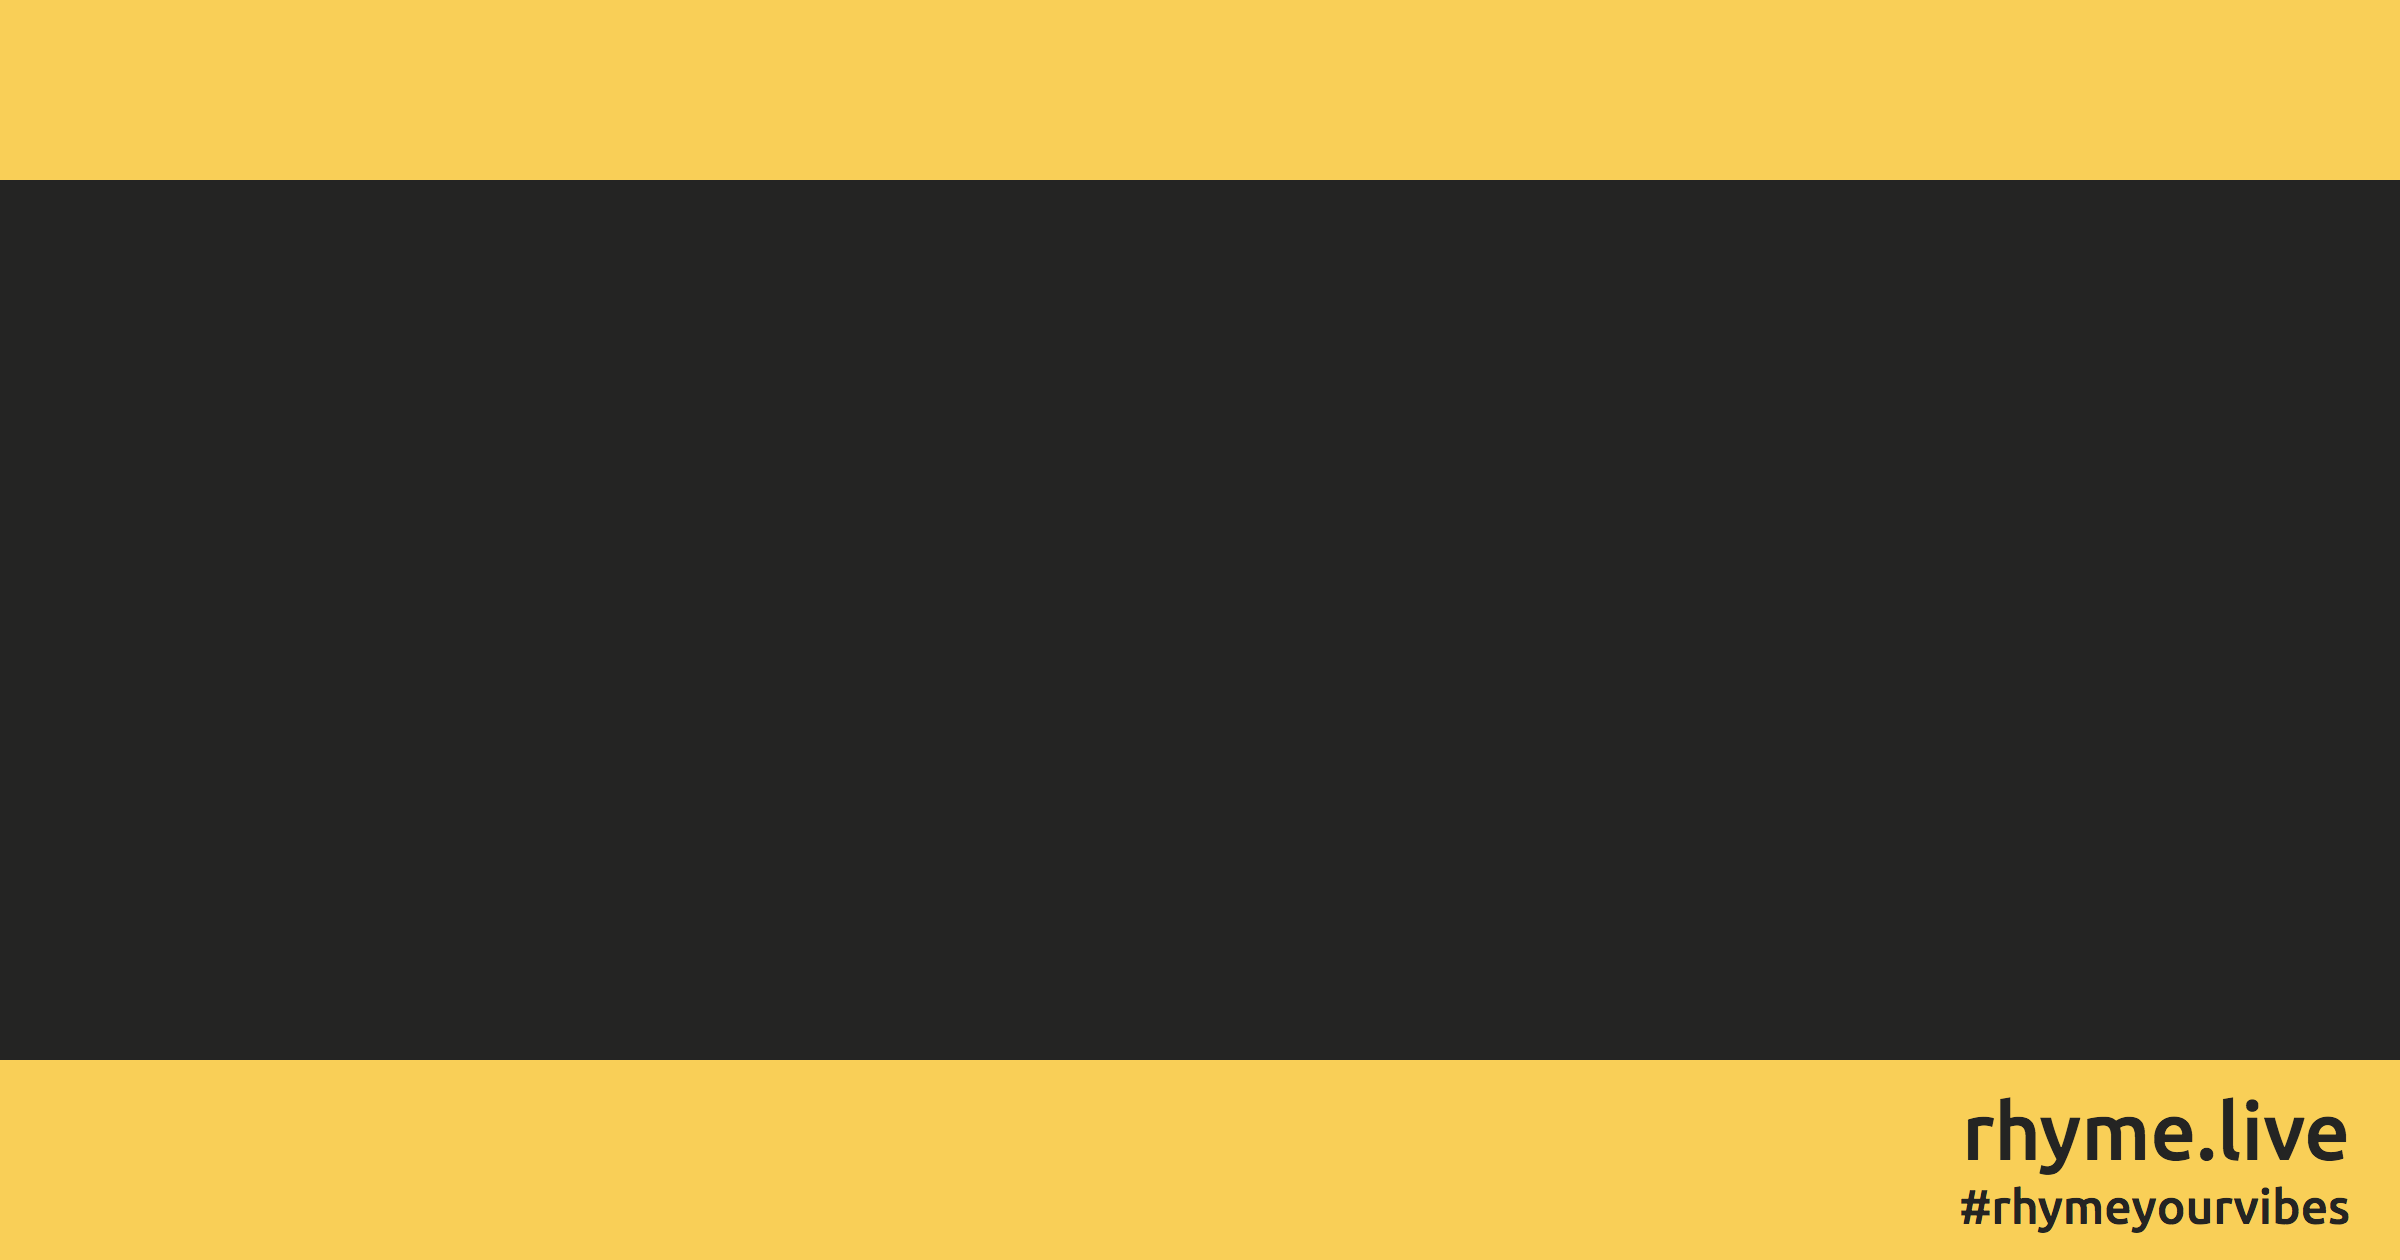
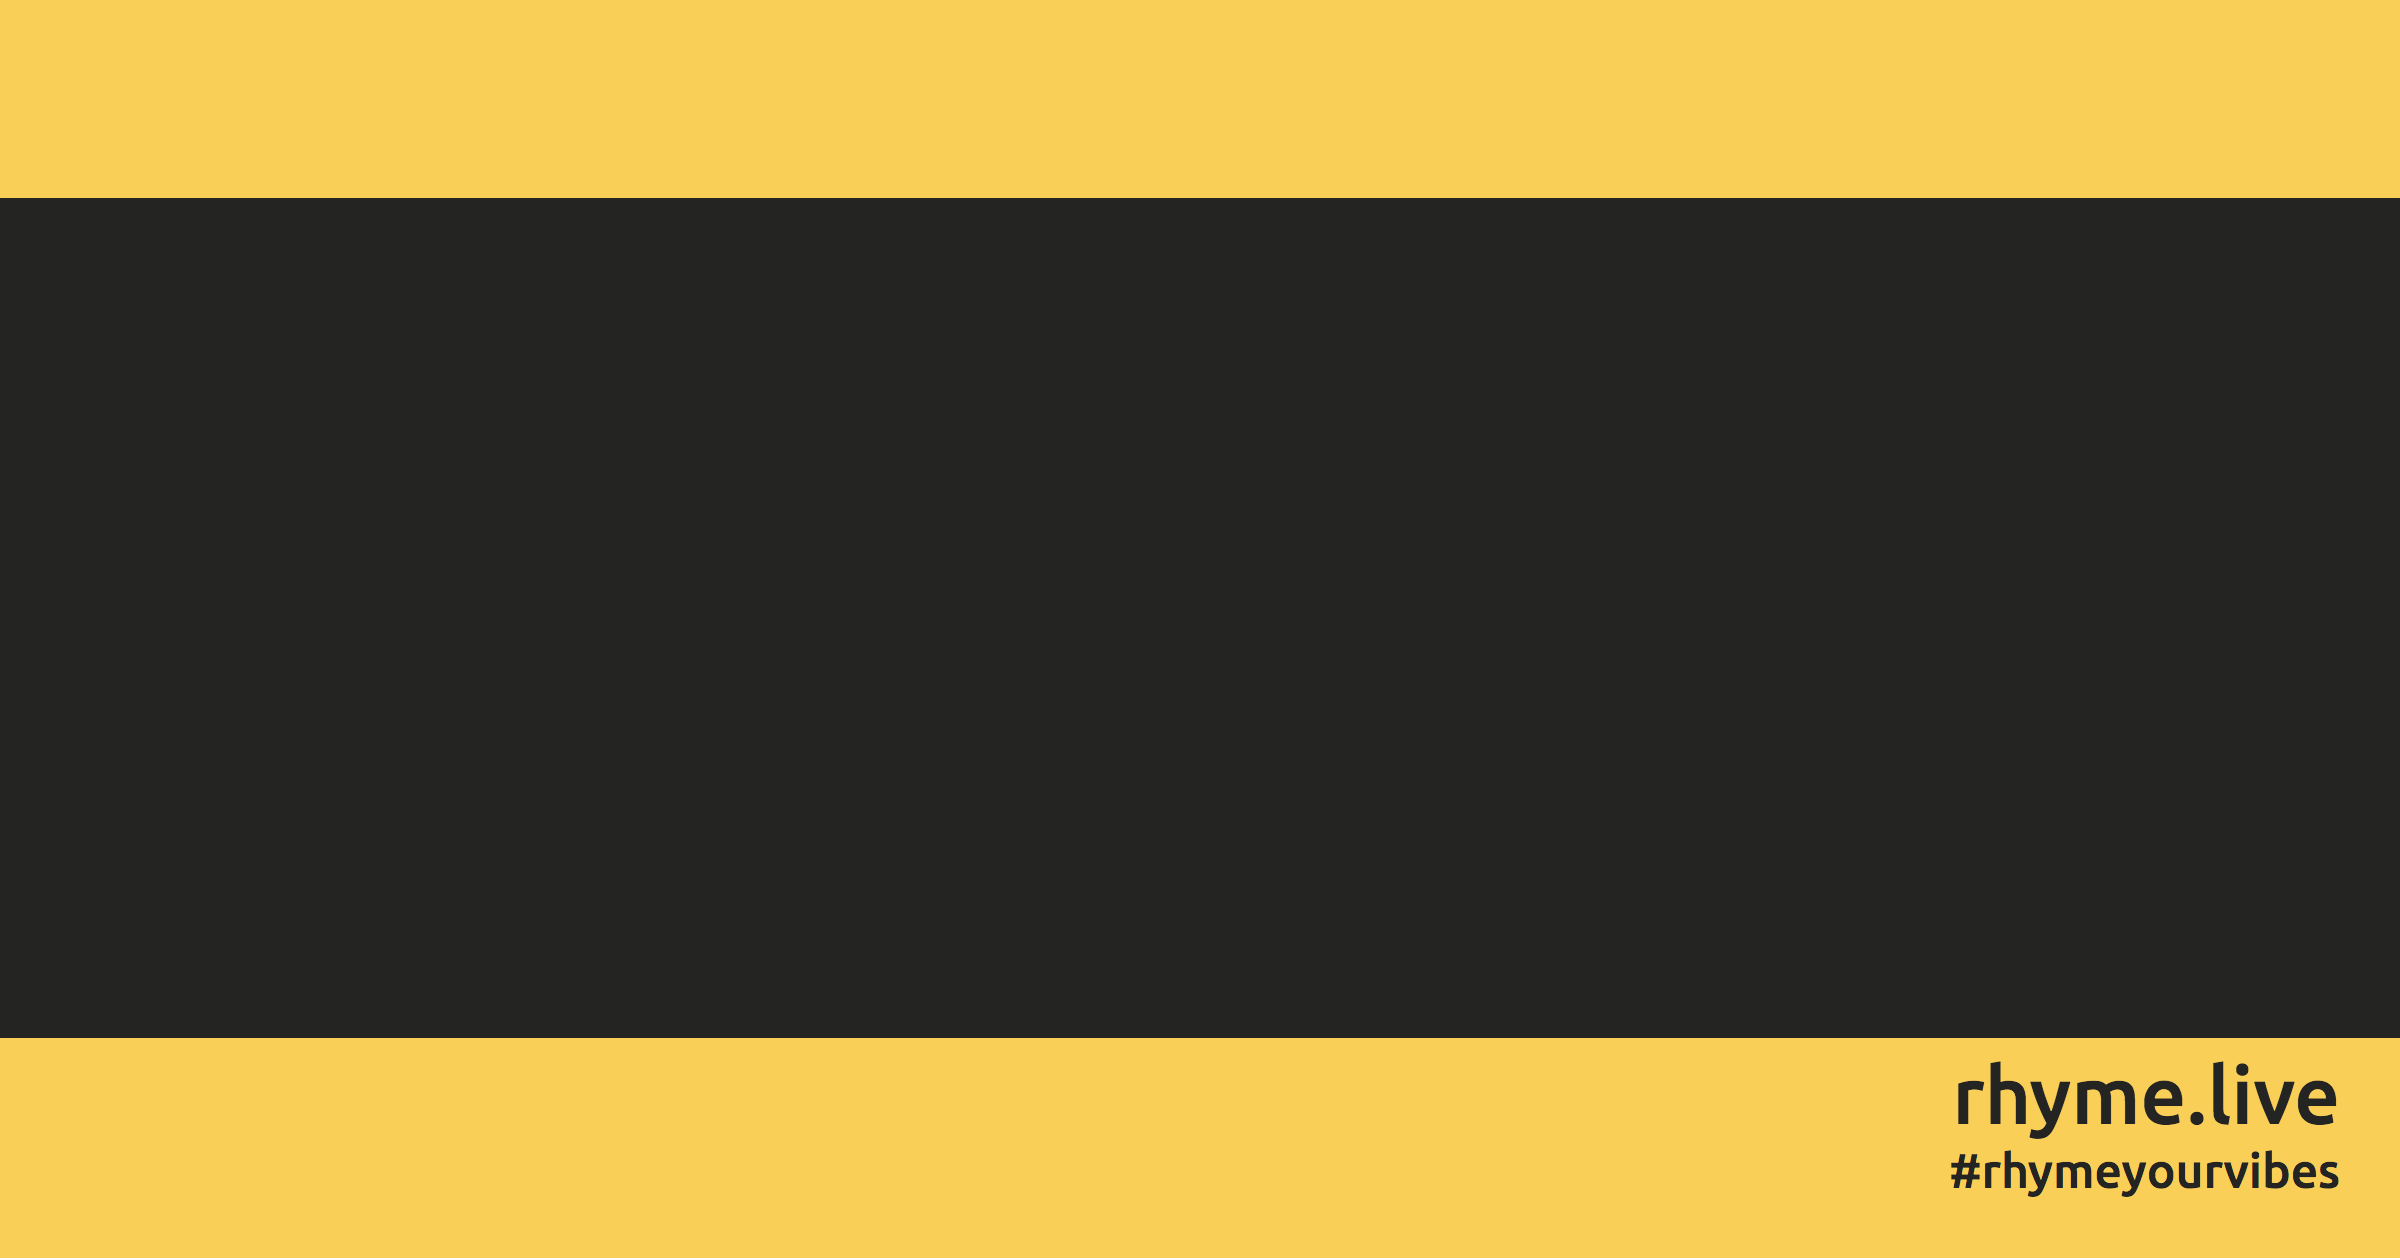
modified background image of verse

Changed region(s): [[0.0, 0.8048, 1.0, 1.0], [0.0, 0.1238, 1.0, 0.1548]]

diff --git a/verses/static/verses/css/verses.css b/verses/static/verses/css/verses.css
@@ -1,3 +1,40 @@
+#bg {
+  width: 1200px;
+  height: 640px;
+  background-color: #242423;
+  position: relative;
+}
+
+#waku1{
+  background-color: #FFCF35;
+  height: 100px;
+  position: absolute;
+  top: 10px;
+  left: 0;
+  right: 0;
+}
+
+#waku2{
+  background-color: #FFCF35;
+  color: #242423;
+  height: 110px;
+  position: absolute;
+  bottom: 0;
+  right: 0;
+  left: 0;
+}
+
+
+#waku2 h2{
+  margin: 5px 30px 0 0;
+  font-size: 40px;
+}
+
+#waku2 h3{
+  margin: 0 30px 0 0;
+  font-size: 24px;
+}
+
 /* =====================================
   Create, Answer, Beef
 ======================================*/
@@ -136,6 +173,7 @@
 #verse-body p,
 #answer-body p,
 #beef-body p {
+  font-family: "Open Sans", "游ゴシック Medium", "游ゴシック体", "Yu Gothic Medium", YuGothic, "ヒラギノ角ゴ ProN", "Hiragino Kaku Gothic ProN", "メイリオ", Meiryo, "ＭＳ Ｐゴシック", "MS PGothic", sans-serif;
   font-size: 15px;
   word-wrap: break-word;
 }

diff --git a/verses/templates/verses/hogehoge.html b/verses/templates/verses/hogehoge.html
@@ -1,0 +1,27 @@
+{% extends 'base.html' %}
+{% load staticfiles %}
+{% block css %}
+  <!-- Stylesheet for verses app -->
+  <link rel="stylesheet" href="{% static 'verses/css/verses.css' %}">
+  <link rel="stylesheet" href="{% static 'verses/css/verses-responsive.css' %}">
+{% endblock %}
+
+{% block content %}
+<div id="bg">
+  <div id="waku1"></div>
+  <!-- <h5 class="text-center">
+    もう何度目かの第一歩<br/>
+    三日坊主アワードの皆勤賞<br/>
+    おまたせ 今から配信しよう<br/>
+    生放送 リテイク無し big show<br/>
+  </h5> -->
+  <div id="waku2">
+          <h2 class="text-right">rhyme.live</h2>
+          <h3 class="text-right">#rhymeyourvibes</h3>
+      </div>
+    </div>
+  </div>
+</div>
+
+
+{% endblock %}

diff --git a/verses/urls.py b/verses/urls.py
@@ -7,6 +7,7 @@ app_name = 'verses'
 urlpatterns = [
     path('create/',  views.create, name = 'create'),
     path('index/', views.index, name='index'),
+    path('hoge/', views.hogehoge, name='hoge'),
     path('<int:verse_id>',views.detail, name='detail'),
     path('<int:verse_id>/like/',PostLikeToggle.as_view(), name='like'),
     path('api/<int:verse_id>/like/',PostLikeAPIToggle.as_view(), name='like-api'),

diff --git a/verses/views.py b/verses/views.py
@@ -191,6 +191,8 @@ def beef(request, verse_id):
         beefs = target.get_beefs().order_by('-pub_date')
         return render(request, 'verses/beef.html', {'target':target, 'beefs':beefs})
 
+def hogehoge(request):
+    return render(request,'verses/hogehoge.html')
 
 class PostLikeToggle(RedirectView):
     def get_redirect_url(self, *args, **kwargs):
